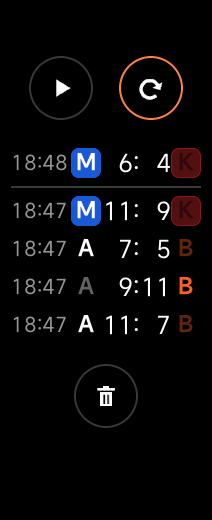
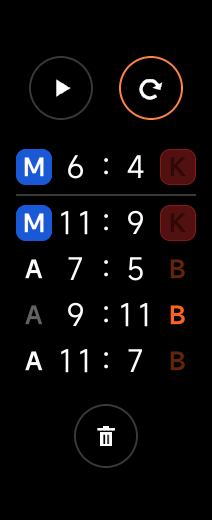
update screenshots

diff --git a/scripts/screenshots.js b/scripts/screenshots.js
@@ -28,6 +28,7 @@ const BG_A = [20, 210]
 const BG_B = [20, 330]
 const FINISH = [159, 260]
 const NEW_GAME = [151, 88]
+const FIRST_ROW = [106, 167] // первая строка списка на экране итога — текущая игра
 
 // Плитки экранов выбора
 const colorCell = (row, col) => [36 + col * 70, 151 + row * 134] // цвет цифр: 3 столбца
@@ -206,6 +207,9 @@ async function main() {
     await shot('07-game-custom')
     await tap(FINISH)
     await shot('08-result-custom')
+
+    await tap(FIRST_ROW)
+    await shot('09-game-details')
   } finally {
     stopping = true
     await manager.stopVvd(VVD)
